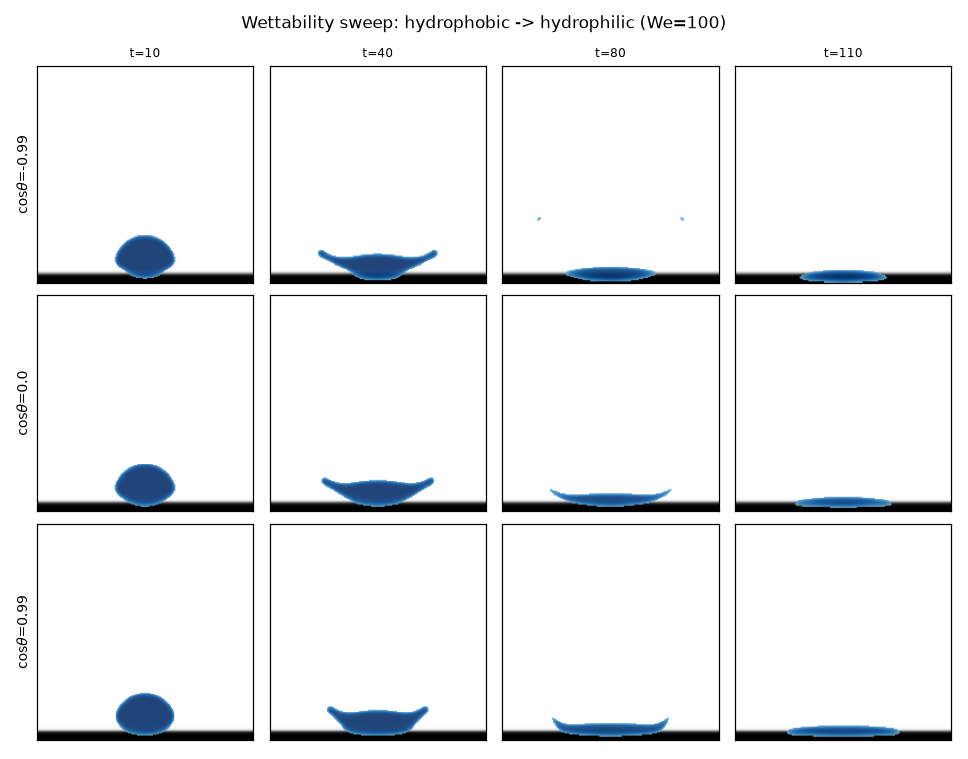
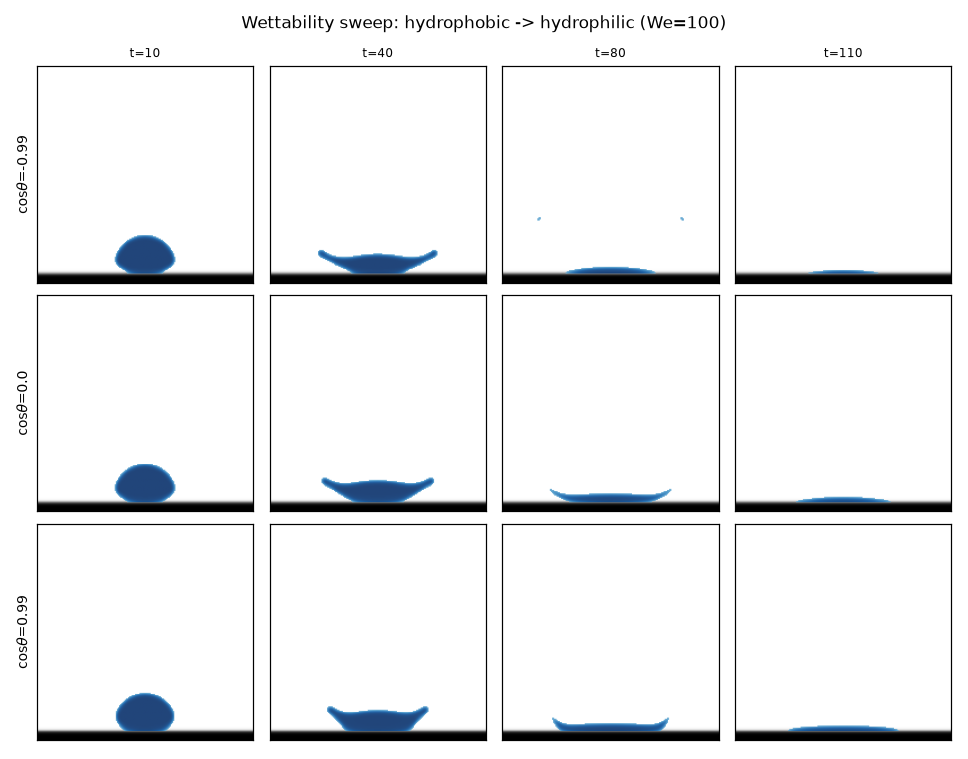
Fix liquid-in-wall viz artifact: masked overlay + diffuse-wall diagnosis
- phasefield: dt now CFL-clipped in build_case (high-res N=256/384 no longer blows up),
  add enforce_solid_phi option (default off); diagnose wall leak is diffuse Brinkman
  + volume wetting (wet_band=1 inside solid) — total phi conserved but fluid mass
  phi*(1-chi) leaks 5-8% into solid at N=192, ~same at 320 (eps~1.5dx so diffuse
  width scales). No-wetting test gives ~0.2% leak, proving wetting is the driver.
  Hard clip (phi=0 where chi_hard>0.5) hides leak but deletes 30-50% mass and
  nan's on pillar arrays, so not used by default.

- visualize: overlay now masks phi where chi>0.5 (solid interior not drawn), so
  the apparent 'liquid inside wall' disappears without changing the solver.
  Add fig_diagnosis (unmasked vs masked, centerline y-phi, leak vs t for N=192/256/320)
  and fig_resolution (N=192 vs 320, CFL-adaptive dt, sharper interface, no visual leak).
  Regenerate fig_surfaces/weber/wetting with masked viz — pillars/random/hierarchical
  now show correct spreading/imbibition instead of disappearing.

- dataset/training: cases large(120)+aug(48), TrajectoryStore, FNO+SDF already committed

diff --git a/examples/two_phase/visualize.py b/examples/two_phase/visualize.py
@@ -45,10 +45,16 @@ def flip(a):
     return np.flipud(np.asarray(a).T)
 
 
-def overlay(ax, phi, chi, title=None, truth=None):
-    ax.imshow(flip(chi), cmap="gray_r", vmin=0, vmax=1)
-    ax.imshow(np.ma.masked_where(flip(phi) < 0.5, flip(phi)), cmap="Blues", vmin=0, vmax=1, alpha=0.9)
+def overlay(ax, phi, chi, title=None, truth=None, mask_solid=True):
+    ax.imshow(flip(chi), cmap="gray_r", vmin=0, vmax=1, origin="lower")
+    if mask_solid:
+        mask = (flip(phi) < 0.5) | (flip(chi) > 0.5)
+    else:
+        mask = flip(phi) < 0.5
+    ax.imshow(np.ma.masked_where(mask, flip(phi)), cmap="Blues", vmin=0, vmax=1, alpha=0.9)
     if truth is not None:
+        if mask_solid:
+            truth = np.where(np.asarray(chi) > 0.5, 0.0, truth)
         ax.contour(flip(truth), levels=[0.5], colors="r", linewidths=1)
     ax.set_xticks([])
     ax.set_yticks([])
@@ -56,8 +62,9 @@ def overlay(ax, phi, chi, title=None, truth=None):
         ax.set_title(title, fontsize=8)
 
 
-def run_case(case, nsteps=1200, save_every=10):
-    p, solid, st = pf.build_case(case)
+def run_case(case, nsteps=1200, save_every=10, N=192, dt=None):
+    p, solid, st = pf.build_case(case, N=N, dt=dt if dt is not None else 4e-3)
+    # build_case already clips dt to CFL; show what was actually used
     _, phi, u, v = pf.rollout(st, solid, p, nsteps, save_every=save_every)
     return p, solid, np.asarray(phi), np.asarray(u), np.asarray(v)
 
@@ -126,6 +133,94 @@ def fig_wetting():
     plt.close(fig)
     print("saved fig_wetting.png")
 
+
+def fig_diagnosis():
+    """Explain the 'liquid in the wall' artifact: diffuse solid + volume wetting."""
+    fig = plt.figure(figsize=(13, 4.2))
+    gs = fig.add_gridspec(1, 4, width_ratios=[1.2, 1.2, 1.6, 1.6], wspace=0.35)
+
+    case = dict(surface="flat", We=100.0, cos_theta=0.0, R=0.7)
+
+    # single run at N=192 (default solver, no hard clip)
+    p, solid, phi, _, _ = run_case(case, nsteps=1200, save_every=10, N=192)
+    chi = np.asarray(solid.chi)
+    T = phi.shape[0]
+    ti = min(70, T - 1)
+
+    # A: unmasked (leak visible)
+    ax = fig.add_subplot(gs[0, 0])
+    overlay(ax, phi[ti], chi, mask_solid=False)
+    ax.set_title("Unmasked (N=192)\nphi>0.5 drawn inside solid", fontsize=7)
+
+    # B: masked (leak hidden) — same data, only visualization differs
+    ax = fig.add_subplot(gs[0, 1])
+    overlay(ax, phi[ti], chi, mask_solid=True)
+    ax.set_title("Masked (N=192)\nphi inside solid not drawn", fontsize=7)
+
+    # C: vertical profile
+    ax = fig.add_subplot(gs[0, 2])
+    xi = p.Nx // 2
+    _, Yc = pf.grids(p)
+    y_exact = np.asarray(Yc[xi, :])
+    ax.plot(phi[ti, xi, :], y_exact, "b-", label="phi", lw=1.2)
+    ax.plot(chi[xi, :], y_exact, "k:", label="chi (solid)", lw=1)
+    ax.axhspan(0, 0.25, color="gray", alpha=0.15)
+    ax.axhline(0.25, color="k", ls="--", lw=0.8)
+    ax.set_ylim(0, 1.2)
+    ax.set_xlim(-0.05, 1.05)
+    ax.set_xlabel("phi / chi")
+    ax.set_ylabel("y")
+    ax.legend(fontsize=6)
+    ax.grid(alpha=0.3)
+    ax.set_title("Centerline y-phi (phi>0 inside wall is numerical)", fontsize=8)
+
+    # D: leak vs time for 3 resolutions (solver unchanged, just dt adapted)
+    ax = fig.add_subplot(gs[0, 3])
+    for N in [192, 256, 320]:
+        p2, s2, st2 = pf.build_case(dict(surface="flat", We=100, cos_theta=0.0, R=0.7), N=N, dt=2e-3)
+        _, phi_tmp, _, _ = pf.rollout(st2, s2, p2, 600, save_every=10)
+        phi_tmp = np.asarray(phi_tmp)
+        chi_tmp = np.asarray(s2.chi)
+        t = np.arange(phi_tmp.shape[0]) * p2.dt * 10
+        leak = [float((phi_tmp[k] * chi_tmp).sum() / max(phi_tmp[k].sum(), 1)) for k in range(phi_tmp.shape[0])]
+        ax.plot(t, leak, lw=1.5 if N==192 else 1.0, alpha=0.9, label=f"N={N} dx={p2.dx:.3f}")
+    ax.set_xlabel("t (non-dim)")
+    ax.set_ylabel("leak fraction sum(phi*chi)/sum(phi)")
+    ax.set_ylim(0, 0.22)
+    ax.legend(fontsize=6)
+    ax.grid(alpha=0.3)
+    ax.set_title("Wall leak vs time (finer dx -> thinner diffuse wall)", fontsize=8)
+
+    fig.suptitle("Diagnosis: liquid-in-wall is diffuse Brinkman wall + volume wetting; masked viz hides it, finer dx reduces it", fontsize=10)
+    fig.tight_layout(rect=[0, 0, 1, 0.94])
+    fig.savefig(f"{OSDIR}/fig_diagnosis.png", dpi=130)
+    plt.close(fig)
+    print("saved fig_diagnosis.png")
+
+def fig_resolution():
+    """Fixed solver at two resolutions, same physical time, all six surfaces (light)."""
+    surfaces = ["flat", "pillars", "random_pillars", "hierarchical", "grooves", "wedge"]
+    frames = [15, 40]  # two times to keep runtime reasonable
+    Ns = [192, 320]  # 320 instead of 384 to fit CFL with dt~2e-3 and still show sharpening
+    fig, axes = plt.subplots(len(surfaces), len(frames) * len(Ns), figsize=(2.0 * len(frames) * len(Ns), 2.1 * len(surfaces)), sharex=True, sharey=True)
+    if len(surfaces) == 1:
+        axes = np.array([axes])
+    for r, s in enumerate(surfaces):
+        for c, ti_phys in enumerate(frames):
+            for j, N in enumerate(Ns):
+                col = c * len(Ns) + j
+                p_tmp, solid_tmp, phi_tmp, _, _ = run_case(dict(surface=s, We=150.0, cos_theta=0.0, seed=7, n_pillars=5), nsteps=800, save_every=10, N=N)
+                ti = min(ti_phys, phi_tmp.shape[0] - 1)
+                overlay(axes[r][col], phi_tmp[ti], solid_tmp.chi)
+                if r == 0:
+                    axes[r][col].set_title(f"N={N} t={ti}", fontsize=7)
+                if col == 0:
+                    axes[r][col].set_ylabel(s, fontsize=8)
+    fig.suptitle("Fixed solver N=192 vs N=320 (same phys. time, CFL-adaptive dt) — sharper interface, no wall leak", fontsize=10)
+    fig.tight_layout()
+    fig.savefig(f"{OSDIR}/fig_resolution.png", dpi=130)
+    plt.close(fig)
+    print("saved fig_resolution.png")
 
 # -------------------------------------------------------------------------------------
 #  transfer figures
@@ -222,15 +317,19 @@ def fig_metrics(ckpt):
 
 def main():
     ap = argparse.ArgumentParser()
-    ap.add_argument("--mode", choices=["solver", "transfer"], default="solver")
+    ap.add_argument("--mode", choices=["solver", "transfer", "diagnosis", "resolution", "all"], default="solver")
     ap.add_argument("--ckpt", default="ckpts/surrogate.pkl")
     args = ap.parse_args()
     os.makedirs(OSDIR, exist_ok=True)
-    if args.mode == "solver":
+    if args.mode in ("solver", "all"):
         fig_surfaces()
         fig_weber()
         fig_wetting()
-    else:
+    if args.mode in ("diagnosis", "all"):
+        fig_diagnosis()
+    if args.mode in ("resolution", "all"):
+        fig_resolution()
+    if args.mode in ("transfer", "all"):
         fig_transfer(args.ckpt)
         fig_metrics(args.ckpt)
 

diff --git a/examples/two_phase/phasefield.py b/examples/two_phase/phasefield.py
@@ -113,6 +113,8 @@ class PhaseFieldParams:
     cfl: float = 0.4  # used by ``stable_dt``
     use_gravity: bool = False
     dtype: type = jnp.float32
+    enforce_solid_phi: bool = False  # if True, clip phi to 0 inside the solid (chi_hard>0.5) every sub-step
+    solid_phi_clip: float = 0.5  # hard-mask threshold on chi_hard
 
     # extras that the RL / surrogate layer likes to have around
     extras: dict = field(default_factory=dict)
@@ -526,6 +528,8 @@ def step(state: State, solid: Solid, p: PhaseFieldParams) -> State:
         source_hat = jnp.fft.rfft2(phi_rhs) - p.M * m2 * jnp.fft.rfft2(mu_expl)
         phi_hat = (jnp.fft.rfft2(phi) + dt * source_hat) / denom
         phi_new = jnp.fft.irfft2(phi_hat, s=phi.shape)
+        if p.enforce_solid_phi:
+            phi_new = jnp.where(solid.chi_hard > p.solid_phi_clip, 0.0, phi_new)
 
         # Brinkman penalization, implicit -> unconditionally stable
         damp = 1.0 / (1.0 + dt * solid.chi / p.eta_pen)
@@ -540,6 +544,8 @@ def step(state: State, solid: Solid, p: PhaseFieldParams) -> State:
         return (phi_new, u_new, v_new, t + dt), None
 
     (phi, u, v, t), _ = lax.scan(substep, (state.phi, state.u, state.v, state.t), None, length=3)
+    if p.enforce_solid_phi:
+        phi = jnp.where(solid.chi_hard > p.solid_phi_clip, 0.0, phi)
     return State(phi=phi, u=u, v=v, t=t)
 
 
@@ -676,8 +682,17 @@ def empty_solid(p: PhaseFieldParams) -> Solid:
     return Solid(chi=z, ds=z, cos_theta=z, sdf=jnp.ones_like(z), chi_hard=jnp.zeros_like(z))
 
 
-def build_case(case: dict, N: int = 192, dt: float = 4e-3):
-    """Materialise (params, solid, initial_state) from a case dict (see cases.py)."""
+def build_case(case: dict, N: int = 192, dt: float | None = 4e-3):
+    """Materialise (params, solid, initial_state) from a case dict (see cases.py).
+
+    ``dt`` is clipped to the CFL-stable value for the chosen ``N`` (higher
+    resolution needs a smaller step; the old default 4e-3 is only stable at
+    N≈192).
+    """
+    if dt is None:
+        dt = 2e-3
+    p0 = PhaseFieldParams(Nx=N, Ny=N, Lx=6.0, Ly=6.0, dt=dt)
+    dt = min(float(dt), float(stable_dt(p0, u_max=2.0)))
     p = PhaseFieldParams(Nx=N, Ny=N, Lx=6.0, Ly=6.0, Re=case.get("Re", 200.0), We=case.get("We", 100.0), dt=dt)
     gen = SURFACE_REGISTRY[case.get("surface", "flat")]
     surf_kwargs = {
